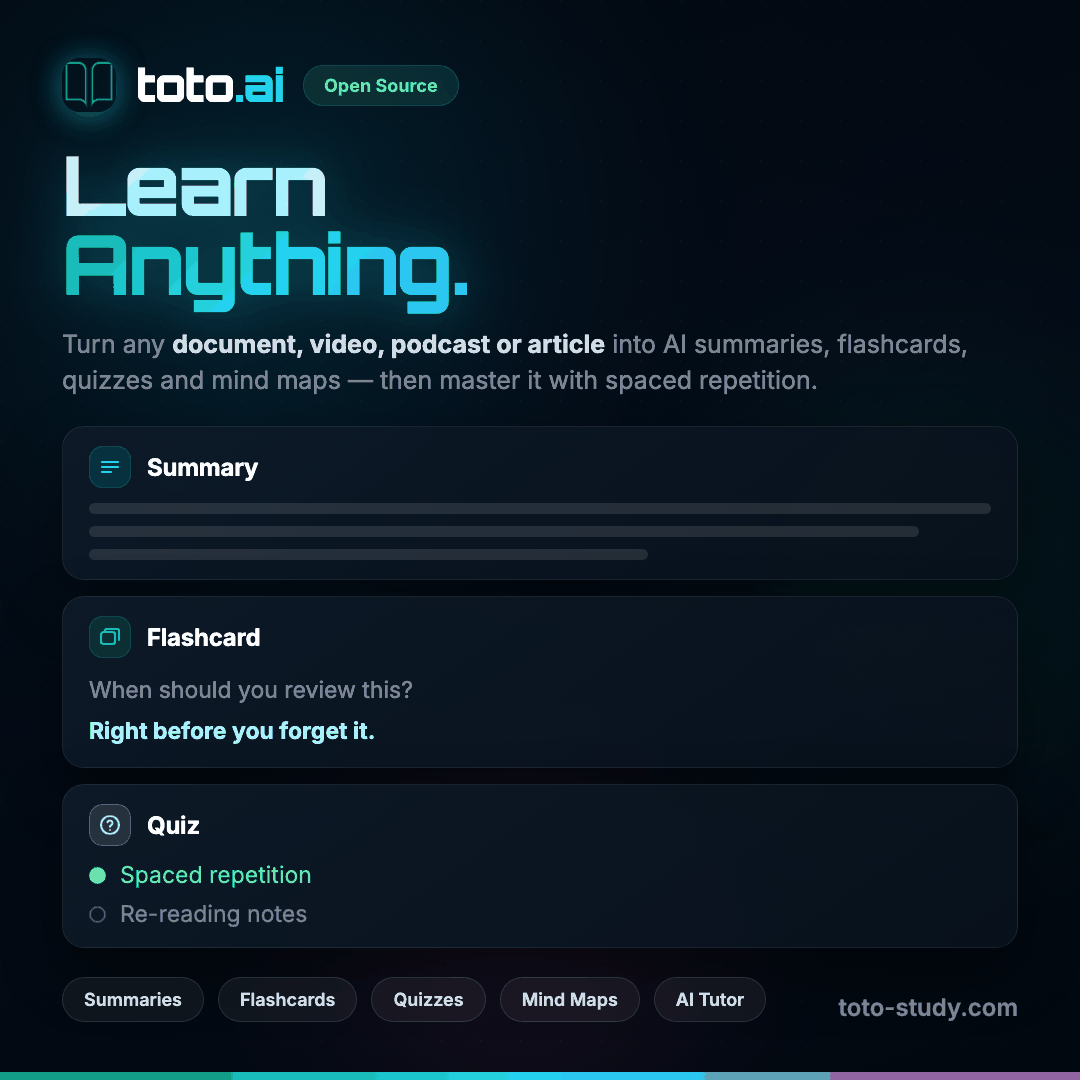
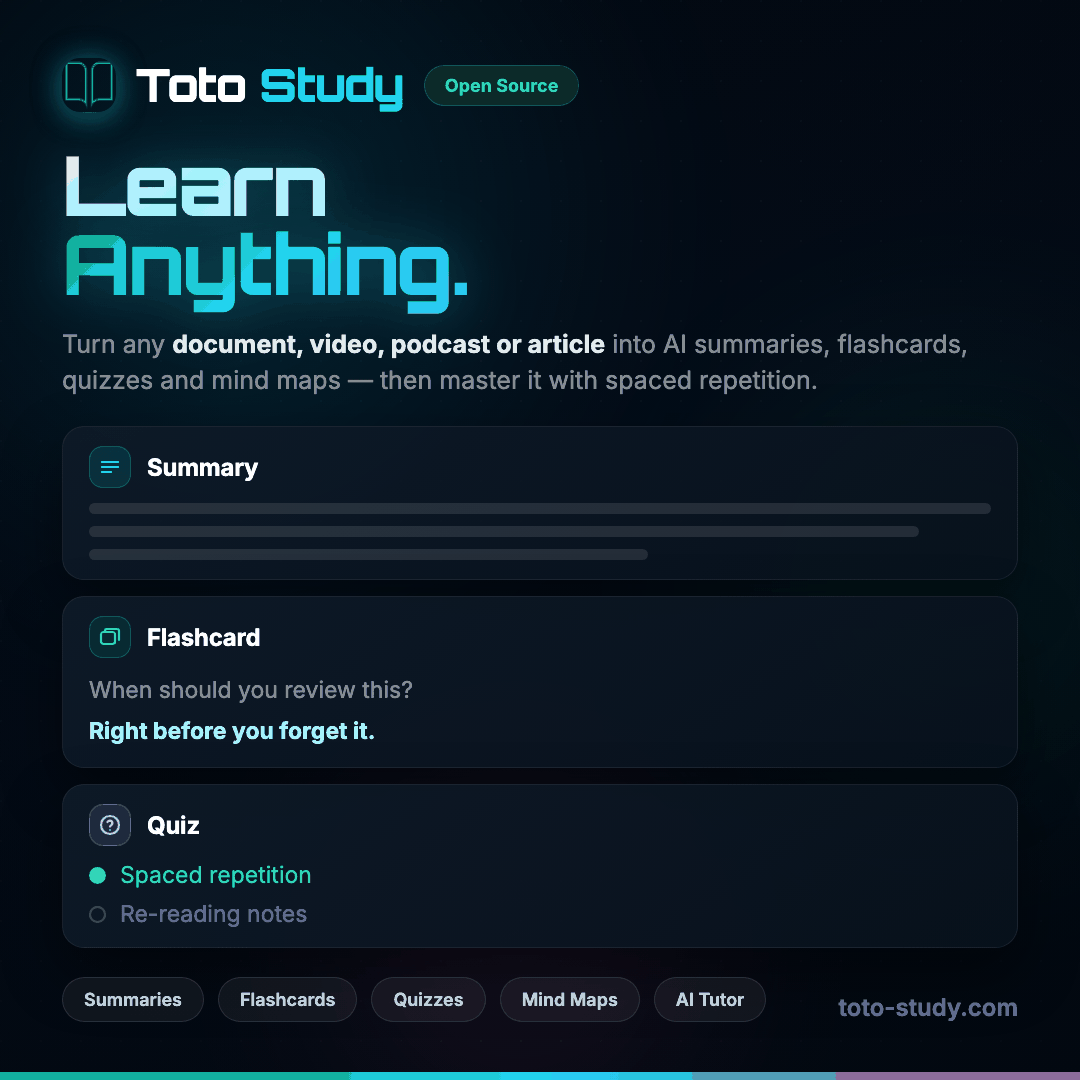
change application name

diff --git a/web/index.html b/web/index.html
@@ -3,14 +3,14 @@
 	<head>
 		<meta charset="UTF-8" />
 		<meta name="viewport" content="width=device-width, initial-scale=1.0" />
-		<title>toto.ai - AI Study Platform</title>
+		<title>Toto Study - AI Study Platform</title>
 		<link rel="icon" type="image/png" href="/app.png" />
 		<link rel="manifest" href="/manifest.webmanifest" />
 		<meta name="theme-color" content="#0d9488" />
 		<link rel="apple-touch-icon" href="/app.png" />
 		<meta name="mobile-web-app-capable" content="yes" />
 		<meta name="apple-mobile-web-app-capable" content="yes" />
-		<meta name="apple-mobile-web-app-title" content="toto.ai" />
+		<meta name="apple-mobile-web-app-title" content="Toto Study" />
 		<link rel="canonical" href="%VITE_SHARE_BASE_URL%/" />
 		<link rel="preconnect" href="https://fonts.googleapis.com" />
 		<link rel="preconnect" href="https://fonts.gstatic.com" crossorigin />
@@ -21,8 +21,8 @@
 			name="description"
 			content="Turn any document, video, podcast, or article into AI summaries, mind maps, flashcards, and quizzes — then master it with spaced repetition, mock exams, and an AI tutor." />
 		<meta property="og:type" content="website" />
-		<meta property="og:site_name" content="toto.ai" />
-		<meta property="og:title" content="toto.ai - AI Study Platform" />
+		<meta property="og:site_name" content="Toto Study" />
+		<meta property="og:title" content="Toto Study - AI Study Platform" />
 		<meta
 			property="og:description"
 			content="Turn any document, video, podcast, or article into AI summaries, mind maps, flashcards, and quizzes — then master it with spaced repetition, mock exams, and an AI tutor." />
@@ -37,14 +37,14 @@
 		<meta property="og:image:width" content="1200" />
 		<meta property="og:image:height" content="1200" />
 		<meta name="twitter:card" content="summary_large_image" />
-		<meta name="twitter:title" content="toto.ai - AI Study Platform" />
+		<meta name="twitter:title" content="Toto Study - AI Study Platform" />
 		<meta
 			name="twitter:description"
 			content="Turn any document, video, podcast, or article into AI summaries, mind maps, flashcards, and quizzes — then master it with spaced repetition, mock exams, and an AI tutor." />
 		<meta
 			name="twitter:image"
 			content="%VITE_SHARE_BASE_URL%/share.png" />
-		<meta name="wechat:title" content="toto.ai - AI Study Platform" />
+		<meta name="wechat:title" content="Toto Study - AI Study Platform" />
 		<meta
 			name="wechat:description"
 			content="Turn any document, video, podcast, or article into AI summaries, mind maps, flashcards, and quizzes — then master it with spaced repetition, mock exams, and an AI tutor." />
@@ -58,7 +58,7 @@
 			{
 				"@context": "https://schema.org",
 				"@type": "SoftwareApplication",
-				"name": "toto.ai",
+				"name": "Toto Study",
 				"applicationCategory": "EducationalApplication",
 				"operatingSystem": "Web, iOS, Android",
 				"url": "%VITE_SHARE_BASE_URL%/",
@@ -86,13 +86,13 @@
 		</script>
 	</head>
 	<body>
-		<img src="/app.png" alt="toto.ai" width="64" height="64" style="display: none" />
+		<img src="/app.png" alt="Toto Study" width="64" height="64" style="display: none" />
 		<div id="root"></div>
 		<!-- Mirrors the copy rendered by web/src/pages/LandingPage.tsx. This is a client-rendered SPA,
 		     so the crawl that happens before JS rendering sees only what is in this file — keep the two
 		     in sync whenever the landing hero, bento cards, or How It Works steps change. -->
 		<noscript>
-			<h1>toto.ai — AI Study Platform</h1>
+			<h1>Toto Study — AI Study Platform</h1>
 			<p>
 				Turn any document, video, podcast, or article into summaries, mind maps, flashcards, and
 				quizzes — then master it with spaced repetition, mock exams, and an AI tutor.
@@ -127,7 +127,7 @@
 			<h2>Videos, podcasts and web articles</h2>
 			<p>
 				Paste a link from YouTube, Bilibili, Vimeo, TED, TikTok and other supported video sites,
-				any podcast episode page or MP3, or any web article — toto.ai pulls the transcript and
+				any podcast episode page or MP3, or any web article — Toto Study pulls the transcript and
 				turns it into study material.
 			</p>
 

diff --git a/web/src/components/common/ShareImageCard.tsx b/web/src/components/common/ShareImageCard.tsx
@@ -86,7 +86,7 @@ export const ShareImageCard = forwardRef<HTMLDivElement, ShareImageCardProps>(
           }}
         >
           <div style={{ fontSize: 14, fontWeight: 600, opacity: 0.85, letterSpacing: 0.5 }}>
-            toto.ai · AI Study Platform
+            Toto Study · AI Study Platform
           </div>
           <div style={{ fontSize: 26, fontWeight: 800, marginTop: 10, lineHeight: 1.3 }}>
             {title}
@@ -220,7 +220,7 @@ export const ShareImageCard = forwardRef<HTMLDivElement, ShareImageCardProps>(
             justifyContent: 'space-between',
           }}
         >
-          <div style={{ fontSize: 13, fontWeight: 700, color: '#059669' }}>toto.ai</div>
+          <div style={{ fontSize: 13, fontWeight: 700, color: '#059669' }}>Toto Study</div>
           <div style={{ fontSize: 12, color: '#a1a1aa' }}>Generated by AI Study Platform</div>
         </div>
       </div>

diff --git a/marketing/social/template.html b/marketing/social/template.html
@@ -2,7 +2,7 @@
 <html lang="en">
   <head>
     <meta charset="UTF-8" />
-    <title>toto.ai social card template</title>
+    <title>Toto Study social card template</title>
     <link rel="preconnect" href="https://fonts.googleapis.com" />
     <link rel="preconnect" href="https://fonts.gstatic.com" crossorigin />
     <link
@@ -160,7 +160,7 @@
         line-height: 1;
       }
 
-      .wordmark .ai {
+      .wordmark .accent {
         color: #22d3ee;
       }
 
@@ -632,7 +632,7 @@
         <div class="col col-main">
           <div class="brand">
             <img src="../../web/public/app.png" alt="" />
-            <span class="wordmark">toto<span class="ai">.ai</span></span>
+            <span class="wordmark">Toto <span class="accent">Study</span></span>
             <span class="oss">Open Source</span>
           </div>
 

diff --git a/web/src/components/landing/Logo.tsx b/web/src/components/landing/Logo.tsx
@@ -16,13 +16,13 @@ export const Logo: React.FC<{ sm?: boolean }> = ({ sm }) => (
       className={`relative p-0.5 ${sm ? 'w-6 h-6' : 'w-9 h-9'} rounded-xl overflow-hidden`}
       style={{ animation: 'logoGlow 3s ease-in-out infinite' }}
     >
-      <img src="/app.png" alt="toto.ai logo" className="w-full h-full object-cover" />
+      <img src="/app.png" alt="Toto Study logo" className="w-full h-full object-cover" />
     </motion.div>
     <span
       className={`${sm ? 'text-sm' : 'text-lg'} font-extrabold tracking-tight`}
       style={{ fontFamily: 'Orbitron, sans-serif' }}
     >
-      toto<span style={{ color: '#22d3ee' }}>.ai</span>
+      Toto <span style={{ color: '#22d3ee' }}>Study</span>
     </span>
   </div>
 );

diff --git a/web/src/components/landing/bento/BentoShareCard.tsx b/web/src/components/landing/bento/BentoShareCard.tsx
@@ -52,7 +52,7 @@ export const BentoShareCard: React.FC = () => {
           <div className="flex items-center gap-1.5 rounded-lg px-2.5 py-2"
             style={{ background: 'rgba(255,255,255,0.04)', border: '1px solid rgba(255,255,255,0.08)' }}>
             <Link2 className="w-3 h-3 text-white/30 flex-shrink-0" />
-            <span className="font-mono text-[10px] text-white/45 truncate">toto.ai/share/x7Kp9q</span>
+            <span className="font-mono text-[10px] text-white/45 truncate">toto-study.com/share/x7Kp9q</span>
             <motion.button
               whileHover={{ scale: 1.08 }}
               whileTap={{ scale: 0.92 }}

diff --git a/web/src/pages/LoginPage.tsx b/web/src/pages/LoginPage.tsx
@@ -116,7 +116,7 @@ export const LoginPage: React.FC = () => {
             transition={{ type: 'spring', stiffness: 380, damping: 16 }}
             className="p-0.5 relative mx-auto mb-4 h-14 w-14 rounded-2xl overflow-hidden"
           >
-            <img src="/app.png" alt="toto.ai logo" className="w-full h-full object-cover" />
+            <img src="/app.png" alt="Toto Study logo" className="w-full h-full object-cover" />
           </motion.div>
           <h1 className="text-2xl font-bold text-zinc-900">
             {isForgotPassword ? (isVerifyingCode ? 'Enter Code' : 'Reset Password') : 'Welcome back'}

diff --git a/web/src/components/landing/CtaSection.tsx b/web/src/components/landing/CtaSection.tsx
@@ -28,7 +28,7 @@ export const CtaSection: React.FC<{ go: () => void }> = ({ go }) => (
 
           <h2 className="text-4xl sm:text-5xl font-extrabold mb-3 leading-tight" style={{ fontFamily: 'Orbitron, sans-serif' }}>
             <span style={{ background: 'linear-gradient(135deg, #e0f7ff, #22d3ee 40%, #14b8a6)', WebkitBackgroundClip: 'text', WebkitTextFillColor: 'transparent' }}>
-              Start with toto.ai
+              Start with Toto Study
             </span>
           </h2>
           <p className="text-white/50 text-base mb-10 max-w-md mx-auto leading-relaxed">

diff --git a/web/src/pages/OAuthCallbackPage.tsx b/web/src/pages/OAuthCallbackPage.tsx
@@ -74,7 +74,7 @@ export const OAuthCallbackPage: React.FC = () => {
           transition={{ duration: 3, repeat: Infinity, ease: 'easeInOut' }}
           className="relative h-16 w-16 overflow-hidden rounded-2xl"
         >
-          <img src="/app.png" alt="toto.ai logo" className="h-full w-full object-cover" />
+          <img src="/app.png" alt="Toto Study logo" className="h-full w-full object-cover" />
         </motion.div>
         <div className="space-y-2 text-center">
           <div className="flex items-center justify-center gap-2">

diff --git a/web/src/pages/RegisterPage.tsx b/web/src/pages/RegisterPage.tsx
@@ -80,7 +80,7 @@ export const RegisterPage: React.FC = () => {
             transition={{ type: 'spring', stiffness: 380, damping: 16 }}
             className="p-0.5 relative mx-auto mb-4 h-14 w-14 rounded-2xl overflow-hidden"
           >
-            <img src="/app.png" alt="toto.ai logo" className="w-full h-full object-cover" />
+            <img src="/app.png" alt="Toto Study logo" className="w-full h-full object-cover" />
           </motion.div>
           <h1 className="text-2xl font-bold text-zinc-900">Create account</h1>
         </div>

diff --git a/rn/src/components/AppLockGate.tsx b/rn/src/components/AppLockGate.tsx
@@ -49,7 +49,7 @@ export function AppLockGate({ children }: { children: React.ReactNode }) {
       <View style={styles.iconCircle}>
         <LockKeyhole size={30} color={Colors.primary} />
       </View>
-      <Text style={styles.title}>toto.ai is locked</Text>
+      <Text style={styles.title}>Toto Study is locked</Text>
       <Text style={styles.subtitle}>Unlock with biometrics or your device passcode.</Text>
       <Button title="Unlock" onPress={promptUnlock} />
     </View>

diff --git a/rn/src/components/auth/AuthScaffold.tsx b/rn/src/components/auth/AuthScaffold.tsx
@@ -38,7 +38,7 @@ export function AuthScaffold({ title, subtitle, footerText, footerLinkText, foot
             <View style={styles.logoTile}>
               <Image source={require('@/assets/images/logo.png')} style={styles.logo} resizeMode="contain" />
             </View>
-            <Text style={styles.brandName}>toto.ai</Text>
+            <Text style={styles.brandName}>Toto Study</Text>
           </LinearGradient>
 
           <View style={styles.card}>

diff --git a/web/src/components/layout/Sidebar.tsx b/web/src/components/layout/Sidebar.tsx
@@ -116,7 +116,7 @@ export const Sidebar: React.FC<SidebarProps> = ({ isOpen, onClose, isCollapsed, 
               )}
               title={isCollapsed ? 'Expand sidebar' : undefined}
             >
-              <img src="/app.png" alt="toto.ai logo" className="w-full h-full object-cover" />
+              <img src="/app.png" alt="Toto Study logo" className="w-full h-full object-cover" />
             </motion.div>
 
             {!isCollapsed && (
